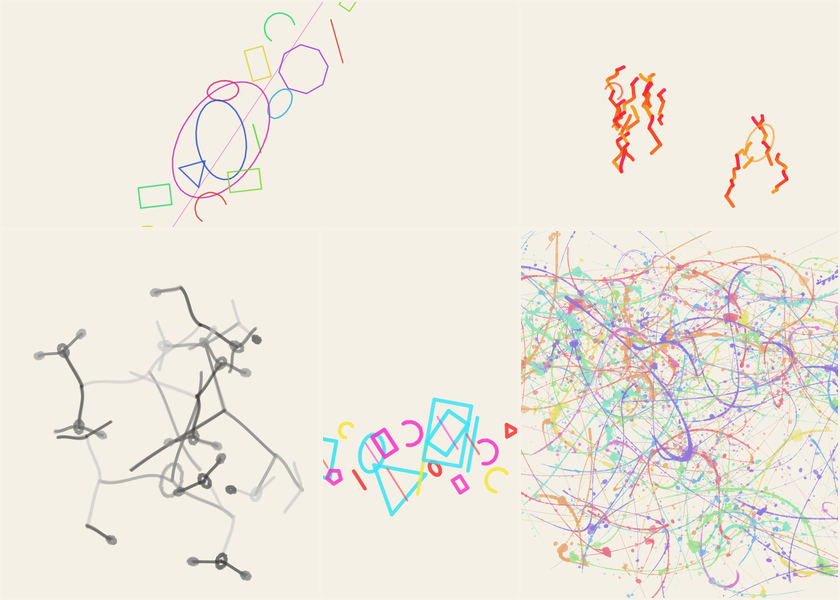
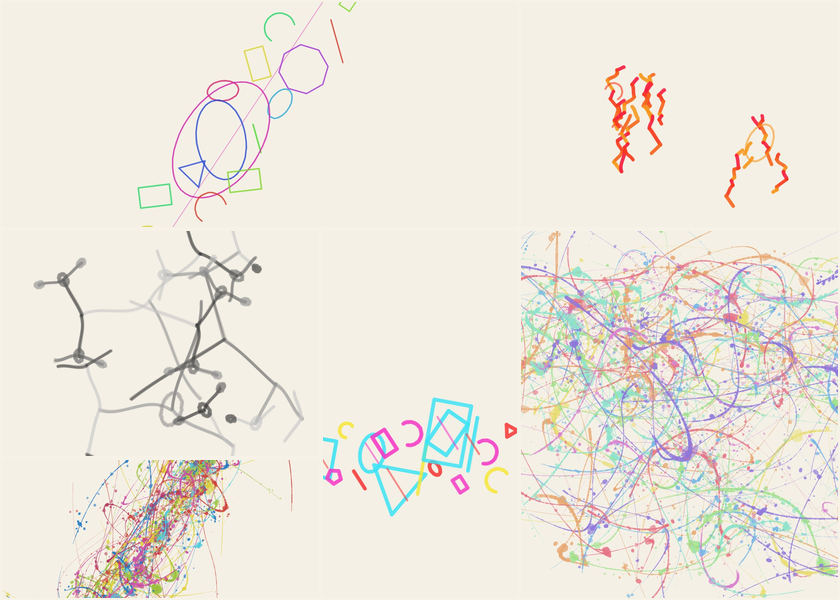
Archive ALGO ART gallery 2026-10-31

diff --git a/gallery/2026-10-31/index.html b/gallery/2026-10-31/index.html
@@ -4,7 +4,7 @@
 <meta charset="utf-8">
 <meta name="viewport" content="width=device-width,initial-scale=1">
 <title>PROPORTION PIECE Daily Gallery — 31 October 2026 | Golden Ratio Generative Art</title>
-<meta name="description" content="5 drawings made on 31 October 2026. Different materials, different compositions, and room to make each one your own.">
+<meta name="description" content="6 drawings made on 31 October 2026. Different materials, different compositions, and room to make each one your own.">
 <meta name="robots" content="index,follow,max-image-preview:large">
 <link rel="canonical" href="https://southernadd-cmyk.github.io/algoart/gallery/2026-10-31/">
 <link rel="icon" type="image/svg+xml" href="../../favicon.svg">
@@ -16,16 +16,16 @@
 <meta property="og:type" content="website">
 <meta property="og:site_name" content="PROPORTION PIECE">
 <meta property="og:title" content="PROPORTION PIECE Daily Gallery — 31 October 2026 | Golden Ratio Generative Art">
-<meta property="og:description" content="5 drawings made on 31 October 2026. Different materials, different compositions, and room to make each one your own.">
+<meta property="og:description" content="6 drawings made on 31 October 2026. Different materials, different compositions, and room to make each one your own.">
 <meta property="og:url" content="https://southernadd-cmyk.github.io/algoart/gallery/2026-10-31/">
 <meta property="og:image" content="https://southernadd-cmyk.github.io/algoart/gallery/2026-10-31/2026-10-31-01-geometric-AA-20261031-01-40914.jpg">
 <meta property="og:image:width" content="1400">
 <meta property="og:image:height" content="1000">
 <meta name="twitter:card" content="summary_large_image">
 <meta name="twitter:title" content="PROPORTION PIECE Daily Gallery — 31 October 2026 | Golden Ratio Generative Art">
-<meta name="twitter:description" content="5 drawings made on 31 October 2026. Different materials, different compositions, and room to make each one your own.">
+<meta name="twitter:description" content="6 drawings made on 31 October 2026. Different materials, different compositions, and room to make each one your own.">
 <meta name="twitter:image" content="https://southernadd-cmyk.github.io/algoart/gallery/2026-10-31/2026-10-31-01-geometric-AA-20261031-01-40914.jpg">
-<script type="application/ld+json">{"@context":"https://schema.org","@type":"CollectionPage","name":"PROPORTION PIECE Daily Gallery — 31 October 2026","description":"5 drawings made on 31 October 2026. Different materials, different compositions, and room to make each one your own.","url":"https://southernadd-cmyk.github.io/algoart/gallery/2026-10-31/","isPartOf":{"@type":"WebSite","name":"PROPORTION PIECE","url":"https://southernadd-cmyk.github.io/algoart/"},"about":["generative art","algorithmic art","golden ratio","creative coding","digital marker art"],"mainEntity":{"@type":"ItemList","numberOfItems":5,"itemListElement":[{"@type":"ListItem","position":1,"item":{"@type":"VisualArtwork","name":"Constructed Forms — Study 01","description":"Constructed Forms generative marker artwork using seed AA-20261031-01-40914, 83% Additional φ pull, fine pen and the golden palette.","image":"https://southernadd-cmyk.github.io/algoart/gallery/2026-10-31/2026-10-31-01-geometric-AA-20261031-01-40914.jpg","url":"https://southernadd-cmyk.github.io/algoart/?v=8&seed=AA-20261031-01-40914&mode=geometric&el=37&den=59&cx=56&neg=29&phi=83&rec=4&spi=28&ga=100&nest=46&pen=fine&th=8&wob=47&od=3&op=75&pr=42&dry=18&curve=11&shape=77&overlap=49&rot=64&ln=1&ci=1&re=1&po=1&ar=1&pal=golden&cols=10&sat=72&bri=49&paper=%23f5f0e6&grain=17&sheet=phi","artform":"Generative digital marker art","artMedium":"Browser canvas and deterministic algorithm","creator":{"@type":"Organization","name":"PROPORTION PIECE","url":"https://southernadd-cmyk.github.io/algoart/"}}},{"@type":"ListItem","position":2,"item":{"@type":"VisualArtwork","name":"Automatic Marks — Study 02","description":"Automatic Marks generative marker artwork using seed AA-20261031-02-18533, 88% Additional φ pull, paint pen and the warm palette.","image":"https://southernadd-cmyk.github.io/algoart/gallery/2026-10-31/2026-10-31-02-scribble-AA-20261031-02-18533.jpg","url":"https://southernadd-cmyk.github.io/algoart/?v=8&seed=AA-20261031-02-18533&mode=scribble&el=43&den=44&cx=62&neg=37&phi=88&rec=6&spi=42&ga=100&nest=30&pen=paint&th=10&wob=52&od=3&op=75&pr=43&dry=24&curve=81&shape=74&overlap=61&rot=91&ln=1&ci=1&re=1&po=1&ar=1&pal=warm&cols=4&sat=92&bri=54&paper=%23f5f0e6&grain=26&sheet=phi","artform":"Generative digital marker art","artMedium":"Browser canvas and deterministic algorithm","creator":{"@type":"Organization","name":"PROPORTION PIECE","url":"https://southernadd-cmyk.github.io/algoart/"}}},{"@type":"ListItem","position":3,"item":{"@type":"VisualArtwork","name":"Growth Systems — Study 03","description":"Growth Systems generative marker artwork using seed AP-20261031-01-14529, 86% Additional φ pull, dry pen and the mono palette.","image":"https://southernadd-cmyk.github.io/algoart/gallery/2026-10-31/2026-10-31-portrait-01-organic-AP-20261031-01-14529.jpg","url":"https://southernadd-cmyk.github.io/algoart/?v=8&seed=AP-20261031-01-14529&mode=organic&fmt=portrait&el=52&den=56&cx=67&neg=35&phi=86&rec=5&spi=54&ga=87&nest=36&pen=dry&th=9&wob=22&od=3&op=65&pr=41&dry=38&curve=93&shape=77&overlap=38&rot=94&ln=1&ci=1&re=1&po=1&ar=1&pal=mono&cols=4&sat=66&bri=46&paper=%23f5f0e6&grain=20&sheet=phi","artform":"Generative digital marker art","artMedium":"Browser canvas and deterministic algorithm","creator":{"@type":"Organization","name":"PROPORTION PIECE","url":"https://southernadd-cmyk.github.io/algoart/"}}},{"@type":"ListItem","position":4,"item":{"@type":"VisualArtwork","name":"Constructed Forms — Study 04","description":"Constructed Forms generative marker artwork using seed AP-20261031-02-36910, 98% Additional φ pull, felt pen and the cmyk palette.","image":"https://southernadd-cmyk.github.io/algoart/gallery/2026-10-31/2026-10-31-portrait-02-geometric-AP-20261031-02-36910.jpg","url":"https://southernadd-cmyk.github.io/algoart/?v=8&seed=AP-20261031-02-36910&mode=geometric&fmt=portrait&el=33&den=61&cx=52&neg=36&phi=98&rec=6&spi=28&ga=91&nest=61&pen=felt&th=13&wob=37&od=3&op=81&pr=57&dry=17&curve=8&shape=77&overlap=42&rot=66&ln=1&ci=1&re=1&po=1&ar=1&pal=cmyk&cols=6&sat=91&bri=59&paper=%23f5f0e6&grain=24&sheet=phi","artform":"Generative digital marker art","artMedium":"Browser canvas and deterministic algorithm","creator":{"@type":"Organization","name":"PROPORTION PIECE","url":"https://southernadd-cmyk.github.io/algoart/"}}},{"@type":"ListItem","position":5,"item":{"@type":"VisualArtwork","name":"Recursive Divisions — Action Painting Study 05","description":"Recursive Divisions Action Painting using seed ACL-20261031-01-31428, the pastel palette and geometry-guided flowing paint.","image":"https://southernadd-cmyk.github.io/algoart/gallery/2026-10-31/2026-10-31-action-landscape-01-rects-ACL-20261031-01-31428.jpg","url":"https://southernadd-cmyk.github.io/algoart/?v=9&seed=ACL-20261031-01-31428&mode=rects&el=51&den=52&cx=67&neg=25&phi=93&rec=7&spi=59&ga=99&nest=25&pen=dry&th=6&wob=47&od=2&op=65&pr=28&dry=14&curve=82&shape=59&overlap=62&rot=96&ln=1&ci=1&re=1&po=1&ar=1&pal=pastel&cols=8&sat=74&bri=51&paper=%23f5f0e6&grain=26&material=action-v4&sheet=phi","artform":"Generative action painting","artMedium":"Browser canvas and deterministic algorithm","creator":{"@type":"Organization","name":"PROPORTION PIECE","url":"https://southernadd-cmyk.github.io/algoart/"}}}]}}</script>
+<script type="application/ld+json">{"@context":"https://schema.org","@type":"CollectionPage","name":"PROPORTION PIECE Daily Gallery — 31 October 2026","description":"6 drawings made on 31 October 2026. Different materials, different compositions, and room to make each one your own.","url":"https://southernadd-cmyk.github.io/algoart/gallery/2026-10-31/","isPartOf":{"@type":"WebSite","name":"PROPORTION PIECE","url":"https://southernadd-cmyk.github.io/algoart/"},"about":["generative art","algorithmic art","golden ratio","creative coding","digital marker art"],"mainEntity":{"@type":"ItemList","numberOfItems":6,"itemListElement":[{"@type":"ListItem","position":1,"item":{"@type":"VisualArtwork","name":"Constructed Forms — Study 01","description":"Constructed Forms generative marker artwork using seed AA-20261031-01-40914, 83% Additional φ pull, fine pen and the golden palette.","image":"https://southernadd-cmyk.github.io/algoart/gallery/2026-10-31/2026-10-31-01-geometric-AA-20261031-01-40914.jpg","url":"https://southernadd-cmyk.github.io/algoart/?v=8&seed=AA-20261031-01-40914&mode=geometric&el=37&den=59&cx=56&neg=29&phi=83&rec=4&spi=28&ga=100&nest=46&pen=fine&th=8&wob=47&od=3&op=75&pr=42&dry=18&curve=11&shape=77&overlap=49&rot=64&ln=1&ci=1&re=1&po=1&ar=1&pal=golden&cols=10&sat=72&bri=49&paper=%23f5f0e6&grain=17&sheet=phi","artform":"Generative digital marker art","artMedium":"Browser canvas and deterministic algorithm","creator":{"@type":"Organization","name":"PROPORTION PIECE","url":"https://southernadd-cmyk.github.io/algoart/"}}},{"@type":"ListItem","position":2,"item":{"@type":"VisualArtwork","name":"Automatic Marks — Study 02","description":"Automatic Marks generative marker artwork using seed AA-20261031-02-18533, 88% Additional φ pull, paint pen and the warm palette.","image":"https://southernadd-cmyk.github.io/algoart/gallery/2026-10-31/2026-10-31-02-scribble-AA-20261031-02-18533.jpg","url":"https://southernadd-cmyk.github.io/algoart/?v=8&seed=AA-20261031-02-18533&mode=scribble&el=43&den=44&cx=62&neg=37&phi=88&rec=6&spi=42&ga=100&nest=30&pen=paint&th=10&wob=52&od=3&op=75&pr=43&dry=24&curve=81&shape=74&overlap=61&rot=91&ln=1&ci=1&re=1&po=1&ar=1&pal=warm&cols=4&sat=92&bri=54&paper=%23f5f0e6&grain=26&sheet=phi","artform":"Generative digital marker art","artMedium":"Browser canvas and deterministic algorithm","creator":{"@type":"Organization","name":"PROPORTION PIECE","url":"https://southernadd-cmyk.github.io/algoart/"}}},{"@type":"ListItem","position":3,"item":{"@type":"VisualArtwork","name":"Growth Systems — Study 03","description":"Growth Systems generative marker artwork using seed AP-20261031-01-14529, 86% Additional φ pull, dry pen and the mono palette.","image":"https://southernadd-cmyk.github.io/algoart/gallery/2026-10-31/2026-10-31-portrait-01-organic-AP-20261031-01-14529.jpg","url":"https://southernadd-cmyk.github.io/algoart/?v=8&seed=AP-20261031-01-14529&mode=organic&fmt=portrait&el=52&den=56&cx=67&neg=35&phi=86&rec=5&spi=54&ga=87&nest=36&pen=dry&th=9&wob=22&od=3&op=65&pr=41&dry=38&curve=93&shape=77&overlap=38&rot=94&ln=1&ci=1&re=1&po=1&ar=1&pal=mono&cols=4&sat=66&bri=46&paper=%23f5f0e6&grain=20&sheet=phi","artform":"Generative digital marker art","artMedium":"Browser canvas and deterministic algorithm","creator":{"@type":"Organization","name":"PROPORTION PIECE","url":"https://southernadd-cmyk.github.io/algoart/"}}},{"@type":"ListItem","position":4,"item":{"@type":"VisualArtwork","name":"Constructed Forms — Study 04","description":"Constructed Forms generative marker artwork using seed AP-20261031-02-36910, 98% Additional φ pull, felt pen and the cmyk palette.","image":"https://southernadd-cmyk.github.io/algoart/gallery/2026-10-31/2026-10-31-portrait-02-geometric-AP-20261031-02-36910.jpg","url":"https://southernadd-cmyk.github.io/algoart/?v=8&seed=AP-20261031-02-36910&mode=geometric&fmt=portrait&el=33&den=61&cx=52&neg=36&phi=98&rec=6&spi=28&ga=91&nest=61&pen=felt&th=13&wob=37&od=3&op=81&pr=57&dry=17&curve=8&shape=77&overlap=42&rot=66&ln=1&ci=1&re=1&po=1&ar=1&pal=cmyk&cols=6&sat=91&bri=59&paper=%23f5f0e6&grain=24&sheet=phi","artform":"Generative digital marker art","artMedium":"Browser canvas and deterministic algorithm","creator":{"@type":"Organization","name":"PROPORTION PIECE","url":"https://southernadd-cmyk.github.io/algoart/"}}},{"@type":"ListItem","position":5,"item":{"@type":"VisualArtwork","name":"Recursive Divisions — Action Painting Study 05","description":"Recursive Divisions Action Painting using seed ACL-20261031-01-31428, the pastel palette and geometry-guided flowing paint.","image":"https://southernadd-cmyk.github.io/algoart/gallery/2026-10-31/2026-10-31-action-landscape-01-rects-ACL-20261031-01-31428.jpg","url":"https://southernadd-cmyk.github.io/algoart/?v=9&seed=ACL-20261031-01-31428&mode=rects&el=51&den=52&cx=67&neg=25&phi=93&rec=7&spi=59&ga=99&nest=25&pen=dry&th=6&wob=47&od=2&op=65&pr=28&dry=14&curve=82&shape=59&overlap=62&rot=96&ln=1&ci=1&re=1&po=1&ar=1&pal=pastel&cols=8&sat=74&bri=51&paper=%23f5f0e6&grain=26&material=action-v4&sheet=phi","artform":"Generative action painting","artMedium":"Browser canvas and deterministic algorithm","creator":{"@type":"Organization","name":"PROPORTION PIECE","url":"https://southernadd-cmyk.github.io/algoart/"}}},{"@type":"ListItem","position":6,"item":{"@type":"VisualArtwork","name":"Golden Trajectories — Action Painting Study 06","description":"Golden Trajectories Action Painting using seed ACP-20261031-01-59888, the cmyk palette and geometry-guided flowing paint.","image":"https://southernadd-cmyk.github.io/algoart/gallery/2026-10-31/2026-10-31-action-portrait-01-spiral-ACP-20261031-01-59888.jpg","url":"https://southernadd-cmyk.github.io/algoart/?v=9&seed=ACP-20261031-01-59888&mode=spiral&fmt=portrait&el=37&den=49&cx=56&neg=35&phi=88&rec=6&spi=35&ga=92&nest=46&pen=felt&th=11&wob=34&od=6&op=85&pr=49&dry=20&curve=0&shape=56&overlap=51&rot=58&ln=1&ci=1&re=1&po=1&ar=1&pal=cmyk&cols=7&sat=76&bri=51&paper=%23f5f0e6&grain=19&material=action-v4&sheet=phi","artform":"Generative action painting","artMedium":"Browser canvas and deterministic algorithm","creator":{"@type":"Organization","name":"PROPORTION PIECE","url":"https://southernadd-cmyk.github.io/algoart/"}}}]}}</script>
 </head>
 <body>
 <header class="algo-global-header">
@@ -38,9 +38,9 @@
   <section class="hero">
     <div class="kicker">DAILY ARCHIVE / 2026-10-31</div>
     <h1>Drawings from<br>31 October 2026.</h1>
-    <p>5 drawings made on 31 October 2026. Different materials, different compositions, and room to make each one your own.</p>
+    <p>6 drawings made on 31 October 2026. Different materials, different compositions, and room to make each one your own.</p>
     <p class="visit-day-link"><a href="../visit/?date=2026-10-31">Walk this floor in 3D →</a></p>
-    <div class="hero-meta"><span>5 drawings</span><span>Different materials</span><span>Each one can be revisited</span></div>
+    <div class="hero-meta"><span>6 drawings</span><span>Different materials</span><span>Each one can be revisited</span></div>
   </section>
   <section class="grid" aria-label="Artwork generated on 31 October 2026">
     
@@ -153,9 +153,31 @@
         </div>
       </div>
     </article>
+
+    <article id="2026-10-31-ACP01" class="art-card" data-orientation="portrait" data-material="action">
+      <a class="art-image-link" href="https://southernadd-cmyk.github.io/algoart/?v=9&amp;seed=ACP-20261031-01-59888&amp;mode=spiral&amp;fmt=portrait&amp;el=37&amp;den=49&amp;cx=56&amp;neg=35&amp;phi=88&amp;rec=6&amp;spi=35&amp;ga=92&amp;nest=46&amp;pen=felt&amp;th=11&amp;wob=34&amp;od=6&amp;op=85&amp;pr=49&amp;dry=20&amp;curve=0&amp;shape=56&amp;overlap=51&amp;rot=58&amp;ln=1&amp;ci=1&amp;re=1&amp;po=1&amp;ar=1&amp;pal=cmyk&amp;cols=7&amp;sat=76&amp;bri=51&amp;paper=%23f5f0e6&amp;grain=19&amp;material=action-v4&amp;sheet=phi" aria-label="Open and remix Golden Trajectories — Action Painting Study 06 in PROPORTION PIECE">
+        <img src="2026-10-31-action-portrait-01-spiral-ACP-20261031-01-59888.jpg" width="1000" height="1400" loading="lazy" decoding="async" alt="Action painting from PROPORTION PIECE&#39;s Golden Trajectories system, seed ACP-20261031-01-59888. Flowing paint skeins, irregular pools and splashes drawn from golden-ratio source geometry.">
+      </a>
+      <div class="art-info">
+        <div class="art-number">06</div>
+        <div>
+          <h2>Golden Trajectories · Action Painting</h2>
+          
+          <dl>
+            <div><dt>Seed</dt><dd>ACP-20261031-01-59888</dd></div>
+            <div><dt>Series</dt><dd>Golden Trajectories</dd></div>
+            <div><dt>Format</dt><dd>Portrait · 1000 × 1400</dd></div>
+            <div><dt>Additional φ pull</dt><dd>88%</dd></div>
+            <div><dt>Material</dt><dd>Action Painting</dd></div>
+            <div><dt>Palette</dt><dd>cmyk</dd></div>
+          </dl>
+          <a class="remix" href="https://southernadd-cmyk.github.io/algoart/?v=9&amp;seed=ACP-20261031-01-59888&amp;mode=spiral&amp;fmt=portrait&amp;el=37&amp;den=49&amp;cx=56&amp;neg=35&amp;phi=88&amp;rec=6&amp;spi=35&amp;ga=92&amp;nest=46&amp;pen=felt&amp;th=11&amp;wob=34&amp;od=6&amp;op=85&amp;pr=49&amp;dry=20&amp;curve=0&amp;shape=56&amp;overlap=51&amp;rot=58&amp;ln=1&amp;ci=1&amp;re=1&amp;po=1&amp;ar=1&amp;pal=cmyk&amp;cols=7&amp;sat=76&amp;bri=51&amp;paper=%23f5f0e6&amp;grain=19&amp;material=action-v4&amp;sheet=phi">Open this drawing →</a>
+        </div>
+      </div>
+    </article>
   </section>
   <section class="about">
-    <span class="section-no">06</span>
+    <span class="section-no">07</span>
     <div>
       <h2>THE SAME PROPORTION.<br>DIFFERENT MARKS.</h2>
       <p>The golden ratio helps arrange each drawing. The material changes how those arrangements feel. Open a piece to see its settings, then change whatever you like.</p>

diff --git a/gallery/index.html b/gallery/index.html
@@ -48,7 +48,7 @@
     
     <article class="day-card">
       <a href="./2026-10-31/">
-        <img src="./2026-10-31/archive-preview.jpg?v=2026-10-31-5" width="840" height="600" loading="eager" decoding="async" fetchpriority="high" onerror="this.onerror=null;this.src='./2026-10-31/2026-10-31-01-geometric-AA-20261031-01-40914.jpg'" alt="Recursive Divisions mosaic showing the artworks from 31 October 2026">
+        <img src="./2026-10-31/archive-preview.jpg?v=2026-10-31-6" width="840" height="600" loading="eager" decoding="async" fetchpriority="high" onerror="this.onerror=null;this.src='./2026-10-31/2026-10-31-01-geometric-AA-20261031-01-40914.jpg'" alt="Recursive Divisions mosaic showing the artworks from 31 October 2026">
         <div>
           <h2>31 October 2026</h2>
         </div>
